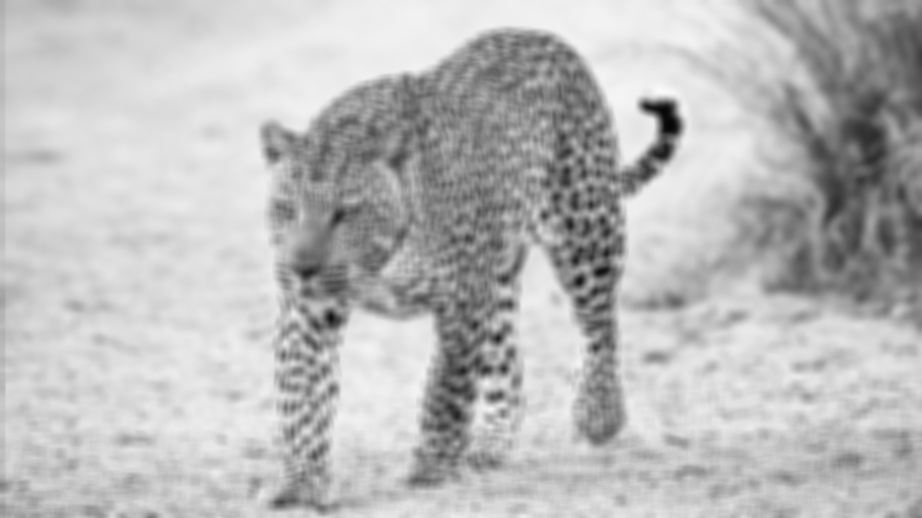
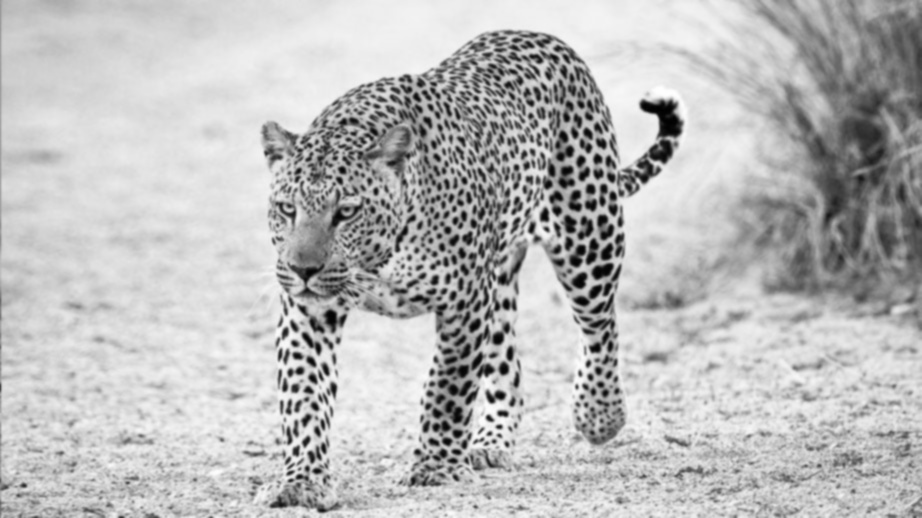
Fixed functions default parameters

diff --git a/image analysis tools/cannyAlgorithm.py b/image analysis tools/cannyAlgorithm.py
@@ -19,7 +19,7 @@ def grayscale_converter(image):
     """
     Input : image np.array, (Blue, green, red)
     Output : image_grayscale np.array (0.11 * blue + 0.59 * green + 0.3 * red)
-    -- colour weight for the human eye
+    -- colour weight for the human eye.
     """
     # Input validity verification
     if len(image.shape) != 3 or image.shape[2] != 3:
@@ -36,8 +36,8 @@ def gen_gaussian_kernel(dim, sd):
     Input : dimension, real number
             sd (standart deviation), real number
     Output : Kernel, np.array
-    -- a square matrix with weights that become weaker the further you are from its centre
-    -- weight distributed according to a Gaussian distribution
+    -- a square matrix with weights that become weaker the further you are from its centre.
+    -- weight distributed according to a Gaussian distribution.
     """
     if dim % 2 == 0:
         dim += 1
@@ -56,7 +56,7 @@ def gen_gaussian_kernel(dim, sd):
     kernel /= np.sum(kernel)
     return kernel
 
-def gaussian_blur(image_matrix, kernel_dim = 10, sd=10):
+def gaussian_blur(image_matrix, kernel_dim = 5, sd=1):
     """
     Input : image_matrix, np.array
             kernel_dim, real number
@@ -64,8 +64,8 @@ def gaussian_blur(image_matrix, kernel_dim = 10, sd=10):
 
     Output : blurred_matrix, np.array
 
-    -- Convolve a Gaussian kernel and the image, 
-    -- Applies a 'summary' of neighbouring pixels to each pixel
+    -- Convolve a Gaussian kernel with the image, 
+    -- Applies a 'summary' of neighbouring pixels to each pixel.
     """
     if kernel_dim >= image_matrix.shape[0] or kernel_dim >= image_matrix.shape[1]:
         print('Invalid kernel.')
@@ -89,11 +89,17 @@ def gaussian_blur(image_matrix, kernel_dim = 10, sd=10):
 
 def xy_gradients(image_matrix):
     """
-    Le but est de calculer un taux de variation autour de chaque pixel dans les directions x et y.
-    On regarde le delta du pixel suivant avec le précédent, en accordant plus d'importance aux pixels voisins directs.
-    --> Convolution avec matrice de Sobel.
-    On regroupe les taux de variations en Magnitudes
-    On calcul leurs orientation
+    Input : image_matrix, a grayscale image matrix, np.array (dim 2)
+    Output: grad_x, grad_y, the gradients in each directions, np.array (dim 2)
+            magnitudes, the matrix of the borders, np.array (dim 2)
+            angles, the matrix of the borders, np.array (dim 2) 
+
+
+    -- The goal is to calculate a rate of change around each pixel in the x and y directions.
+    We look at the delta of the next pixel with the previous one, giving more importance to the direct neighbouring pixels.
+    --> Convolution with Sobel matrix.
+    The rates of change are grouped into Magnitudes (gives positive values and groups the directions).
+    We calculate their orientation in angles.
     """
 
     # SOBEL matrix
@@ -118,6 +124,15 @@ def xy_gradients(image_matrix):
     return grad_x, grad_y, magnitudes, angles
 
 def only_maxima(magnitudes_matrix, angles_matrix):
+    """
+    Input:  magnitudes_matrix, np.array (dim 2)
+            angles_matrix, np.array (dim 2)
+    
+    Output: outline_matrix, the matrix with the weak and isolated borders removed, np.array (dim 2)
+
+    -- Analyses the weakness of the borders, keeping only does who are connected with strong ones 
+    in each 4 directions.
+    """
     rows, cols = angles_matrix.shape
     outline_matrix = np.zeros_like(magnitudes_matrix)
     
@@ -154,10 +169,14 @@ def only_maxima(magnitudes_matrix, angles_matrix):
 
 def hysteresis(outlined_matrix,threshold_high = 120, threshold_low = 80):
     """
-    L'hystérésis permet de suivre les contours en connectant les contours faibles aux contours forts, 
-    mais seulement s'ils sont adjacents à un contour fort. Cela garantit que seuls les contours réels, 
-    qui sont connectés et significatifs, sont retenus, réduisant ainsi les faux positifs dus au bruit.
+    Input:  outline_matrix, matrix of the borders, np.array (dim 2)
+            threshold_high, treshold_low, the gaps where the borders are described as relevant or not, real number (0 - 255)
+
+    Output: jungle_matrix, the matrix where only the relevant borders are keeped, np.array (dim 2)
     """
+
+    if(threshold_high < 0 or threshold_high > 255 or threshold_low < 0 or threshold_low > 255 or threshold_low > threshold_high ):
+        raise ValueError(f"Invalid thresholds: threshold_high must be between 0 and 255, and threshold_low must be between 0 and 255 and less than or equal to threshold_high. treshold_low : {threshold_low}, treshold_high : {threshold_high}")
     rows, cols = outlined_matrix.shape
     jungle_matrix = np.full((rows, cols), 0, dtype=np.uint8)
 
@@ -172,14 +191,17 @@ def hysteresis(outlined_matrix,threshold_high = 120, threshold_low = 80):
 
     return jungle_matrix
 
-def canny(image, treshold_high = 120, treshold_low = 80, smoothness = (10,10)):
+def canny(image, threshold_high = 120, threshold_low = 80, smoothness = (5, 1)):
+    if(threshold_high < 0 or threshold_high > 255 or threshold_low < 0 or threshold_low > 255 or threshold_low > threshold_high ):
+        raise ValueError(f"Invalid thresholds: threshold_high must be between 0 and 255, and threshold_low must be between 0 and 255 and less than or equal to threshold_high. treshold_low : {threshold_low}, treshold_high : {threshold_high}")
     image_g = grayscale_converter(image)
     image_b = gaussian_blur(image_g, smoothness[0], smoothness[1])
-    image_m = xy_gradients(image_b)[2]
-    image_a = xy_gradients(image_b)[3]
+    grad_x, grad_y, image_m, image_a = xy_gradients(image_b)
     image_o = only_maxima(image_m, image_a)
+    return hysteresis(image_o, threshold_high, threshold_low)
 
-    return hysteresis(image_o, treshold_high, treshold_low)
+
+
 
 def test():
     start = time.time()
@@ -195,13 +217,13 @@ def test():
     print(f"-- Grayed in {end - start_step} seconds.")
 
     start_step = time.time()
-    image_blurred = gaussian_blur(image_gray, 10, 10)
+    image_blurred = gaussian_blur(image_gray)
     cv2.imwrite('rendered/3_blur.jpg', image_blurred)
     end = time.time()
     print(f"-- Blured in {end - start_step} seconds.")
 
     start_step = time.time()
-    grad_x, grad_y, mag, angles = xy_gradients(image_gray)
+    grad_x, grad_y, mag, angles = xy_gradients(image_blurred)
     cv2.imwrite('rendered/4_grad_x.jpg', grad_x)
     cv2.imwrite('rendered/4_grad_y.jpg', grad_y)
     cv2.imwrite('rendered/5_magnitudes.jpg', mag)
@@ -221,7 +243,7 @@ def test():
     print(f"-- Hysteresis computed in {end - start_step} seconds.")
 
     start_step = time.time()
-    myCanny = canny(image, 50, 80)
+    myCanny = canny(image, 80, 10)
     cv2.imwrite('rendered/8_myCanny.jpg', myCanny)
     end = time.time()
     print(f"-- Canny computed in {end - start_step} seconds.")
@@ -235,4 +257,4 @@ def test():
     end = time.time()
     print(f"\n ==== Done in {end - start} seconds. ====\n")
 
-test()
+    return image_hysteresis
